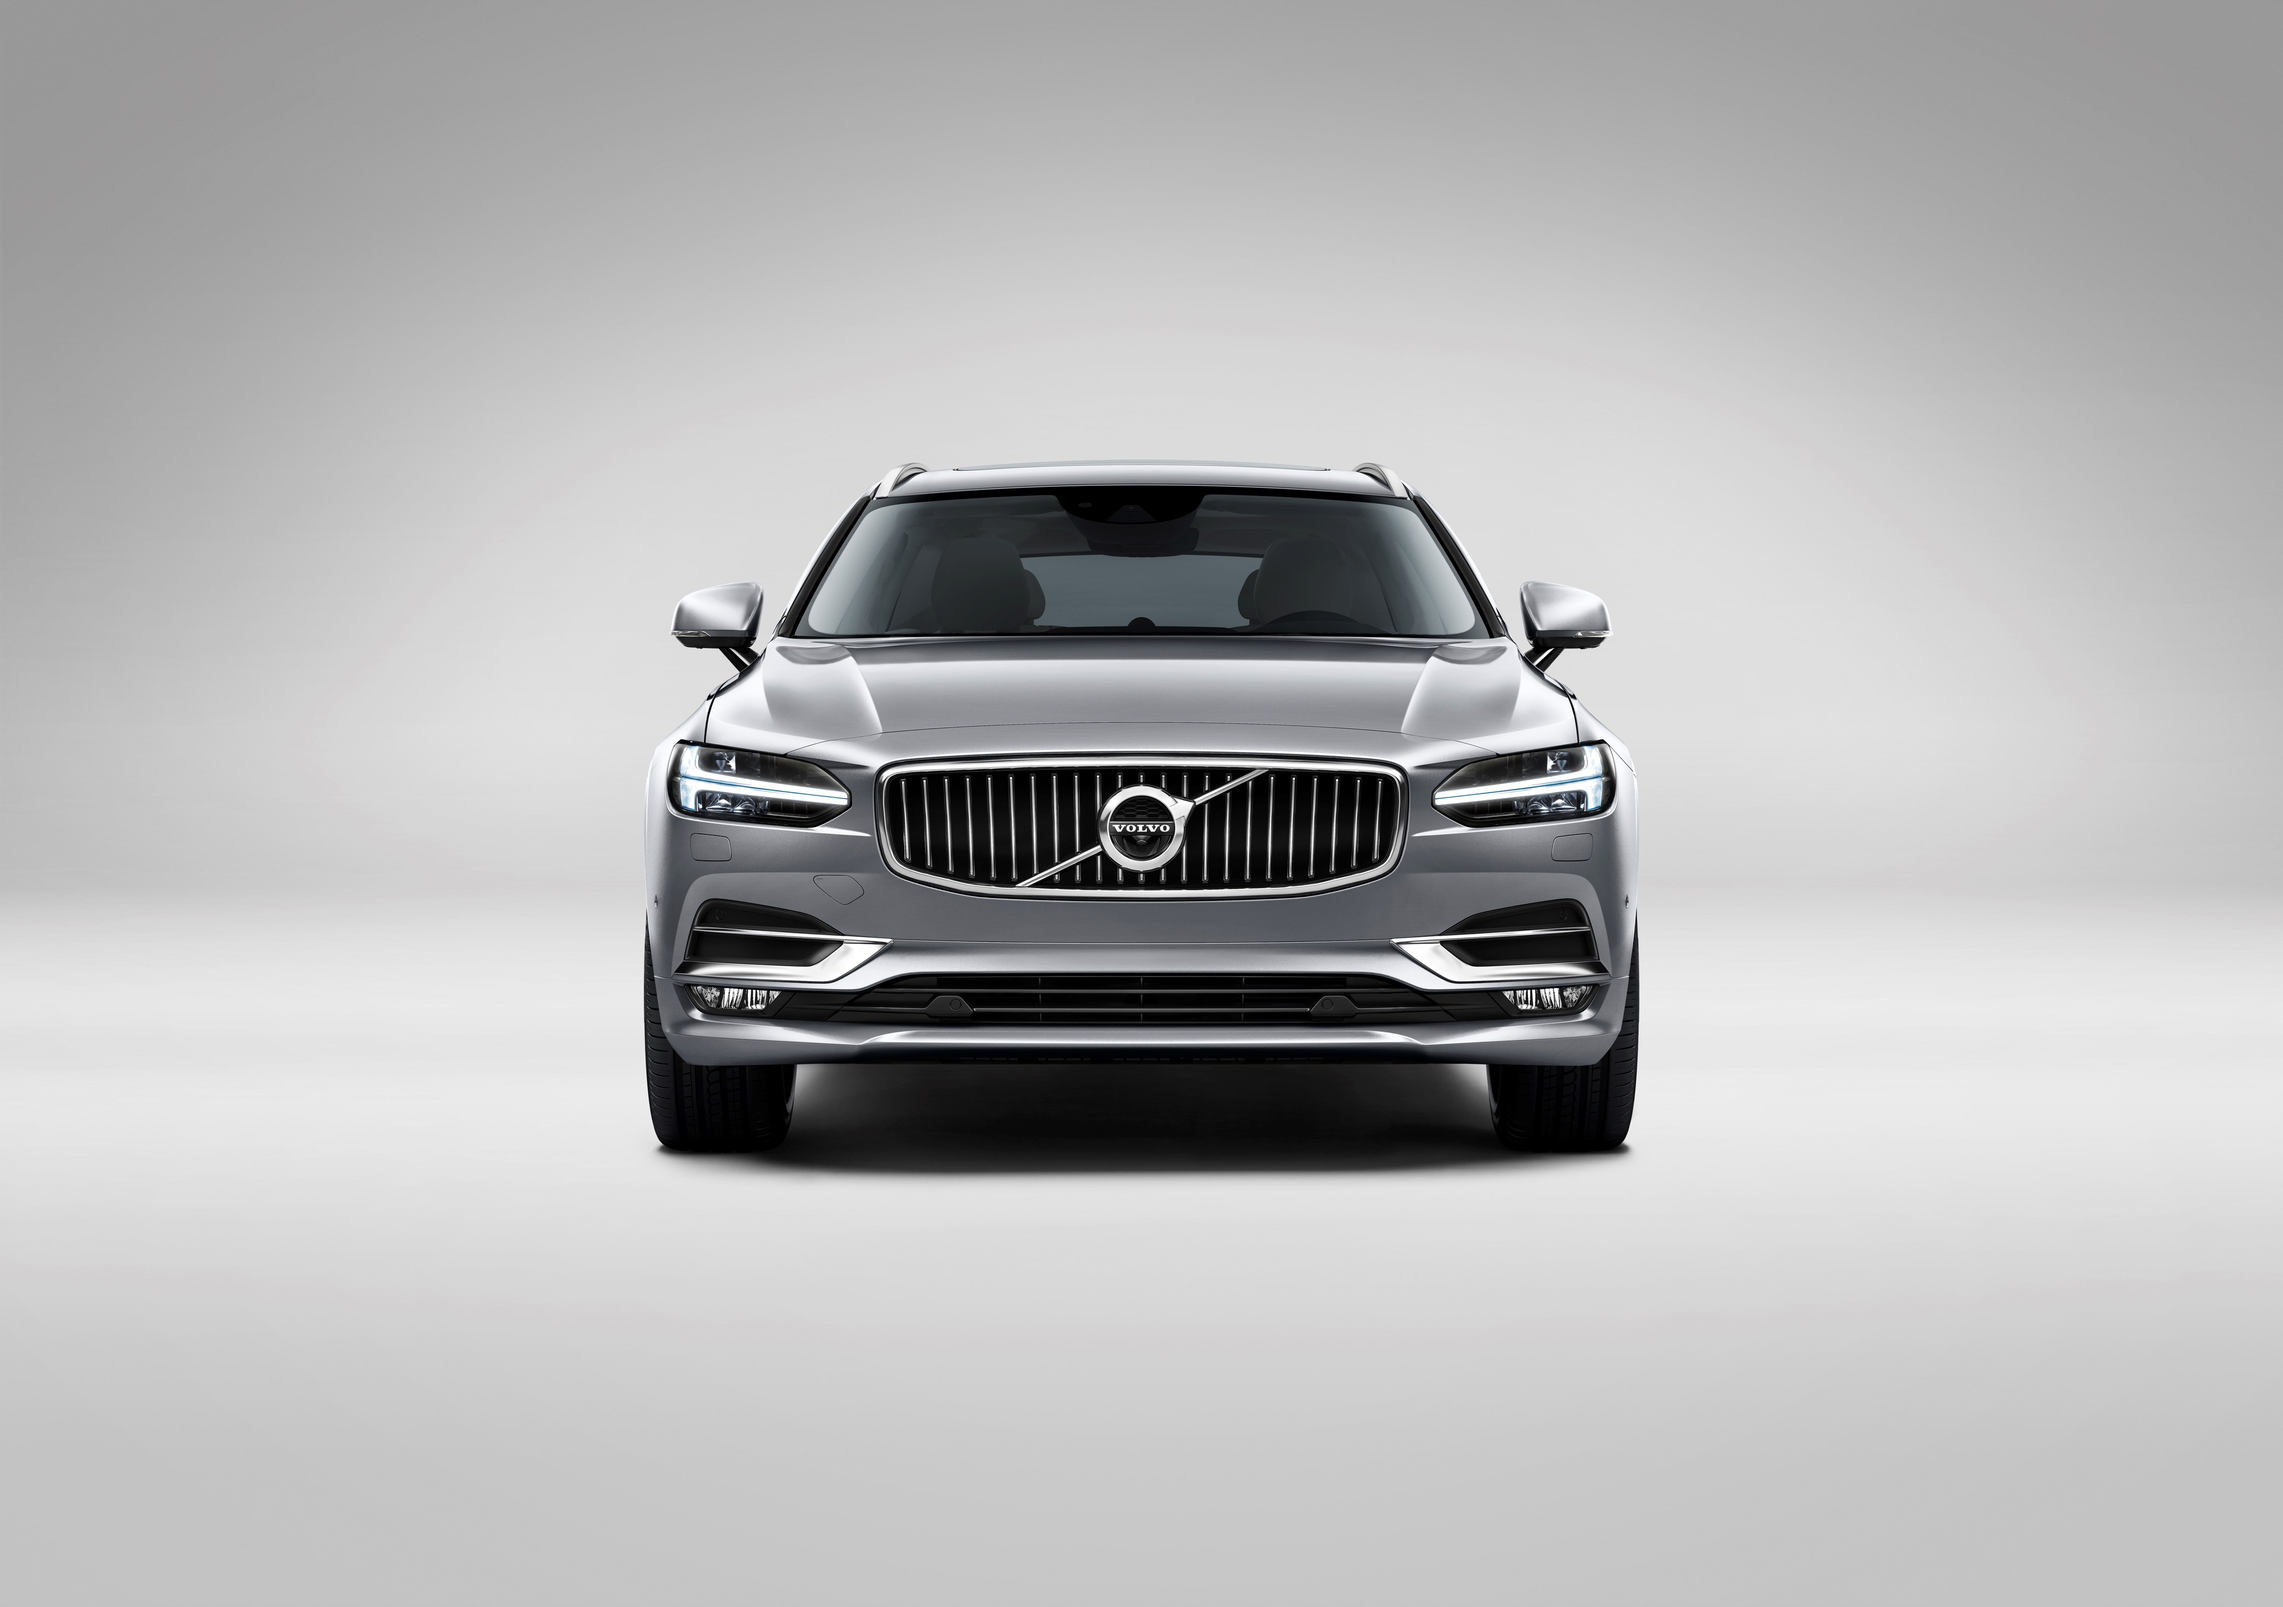
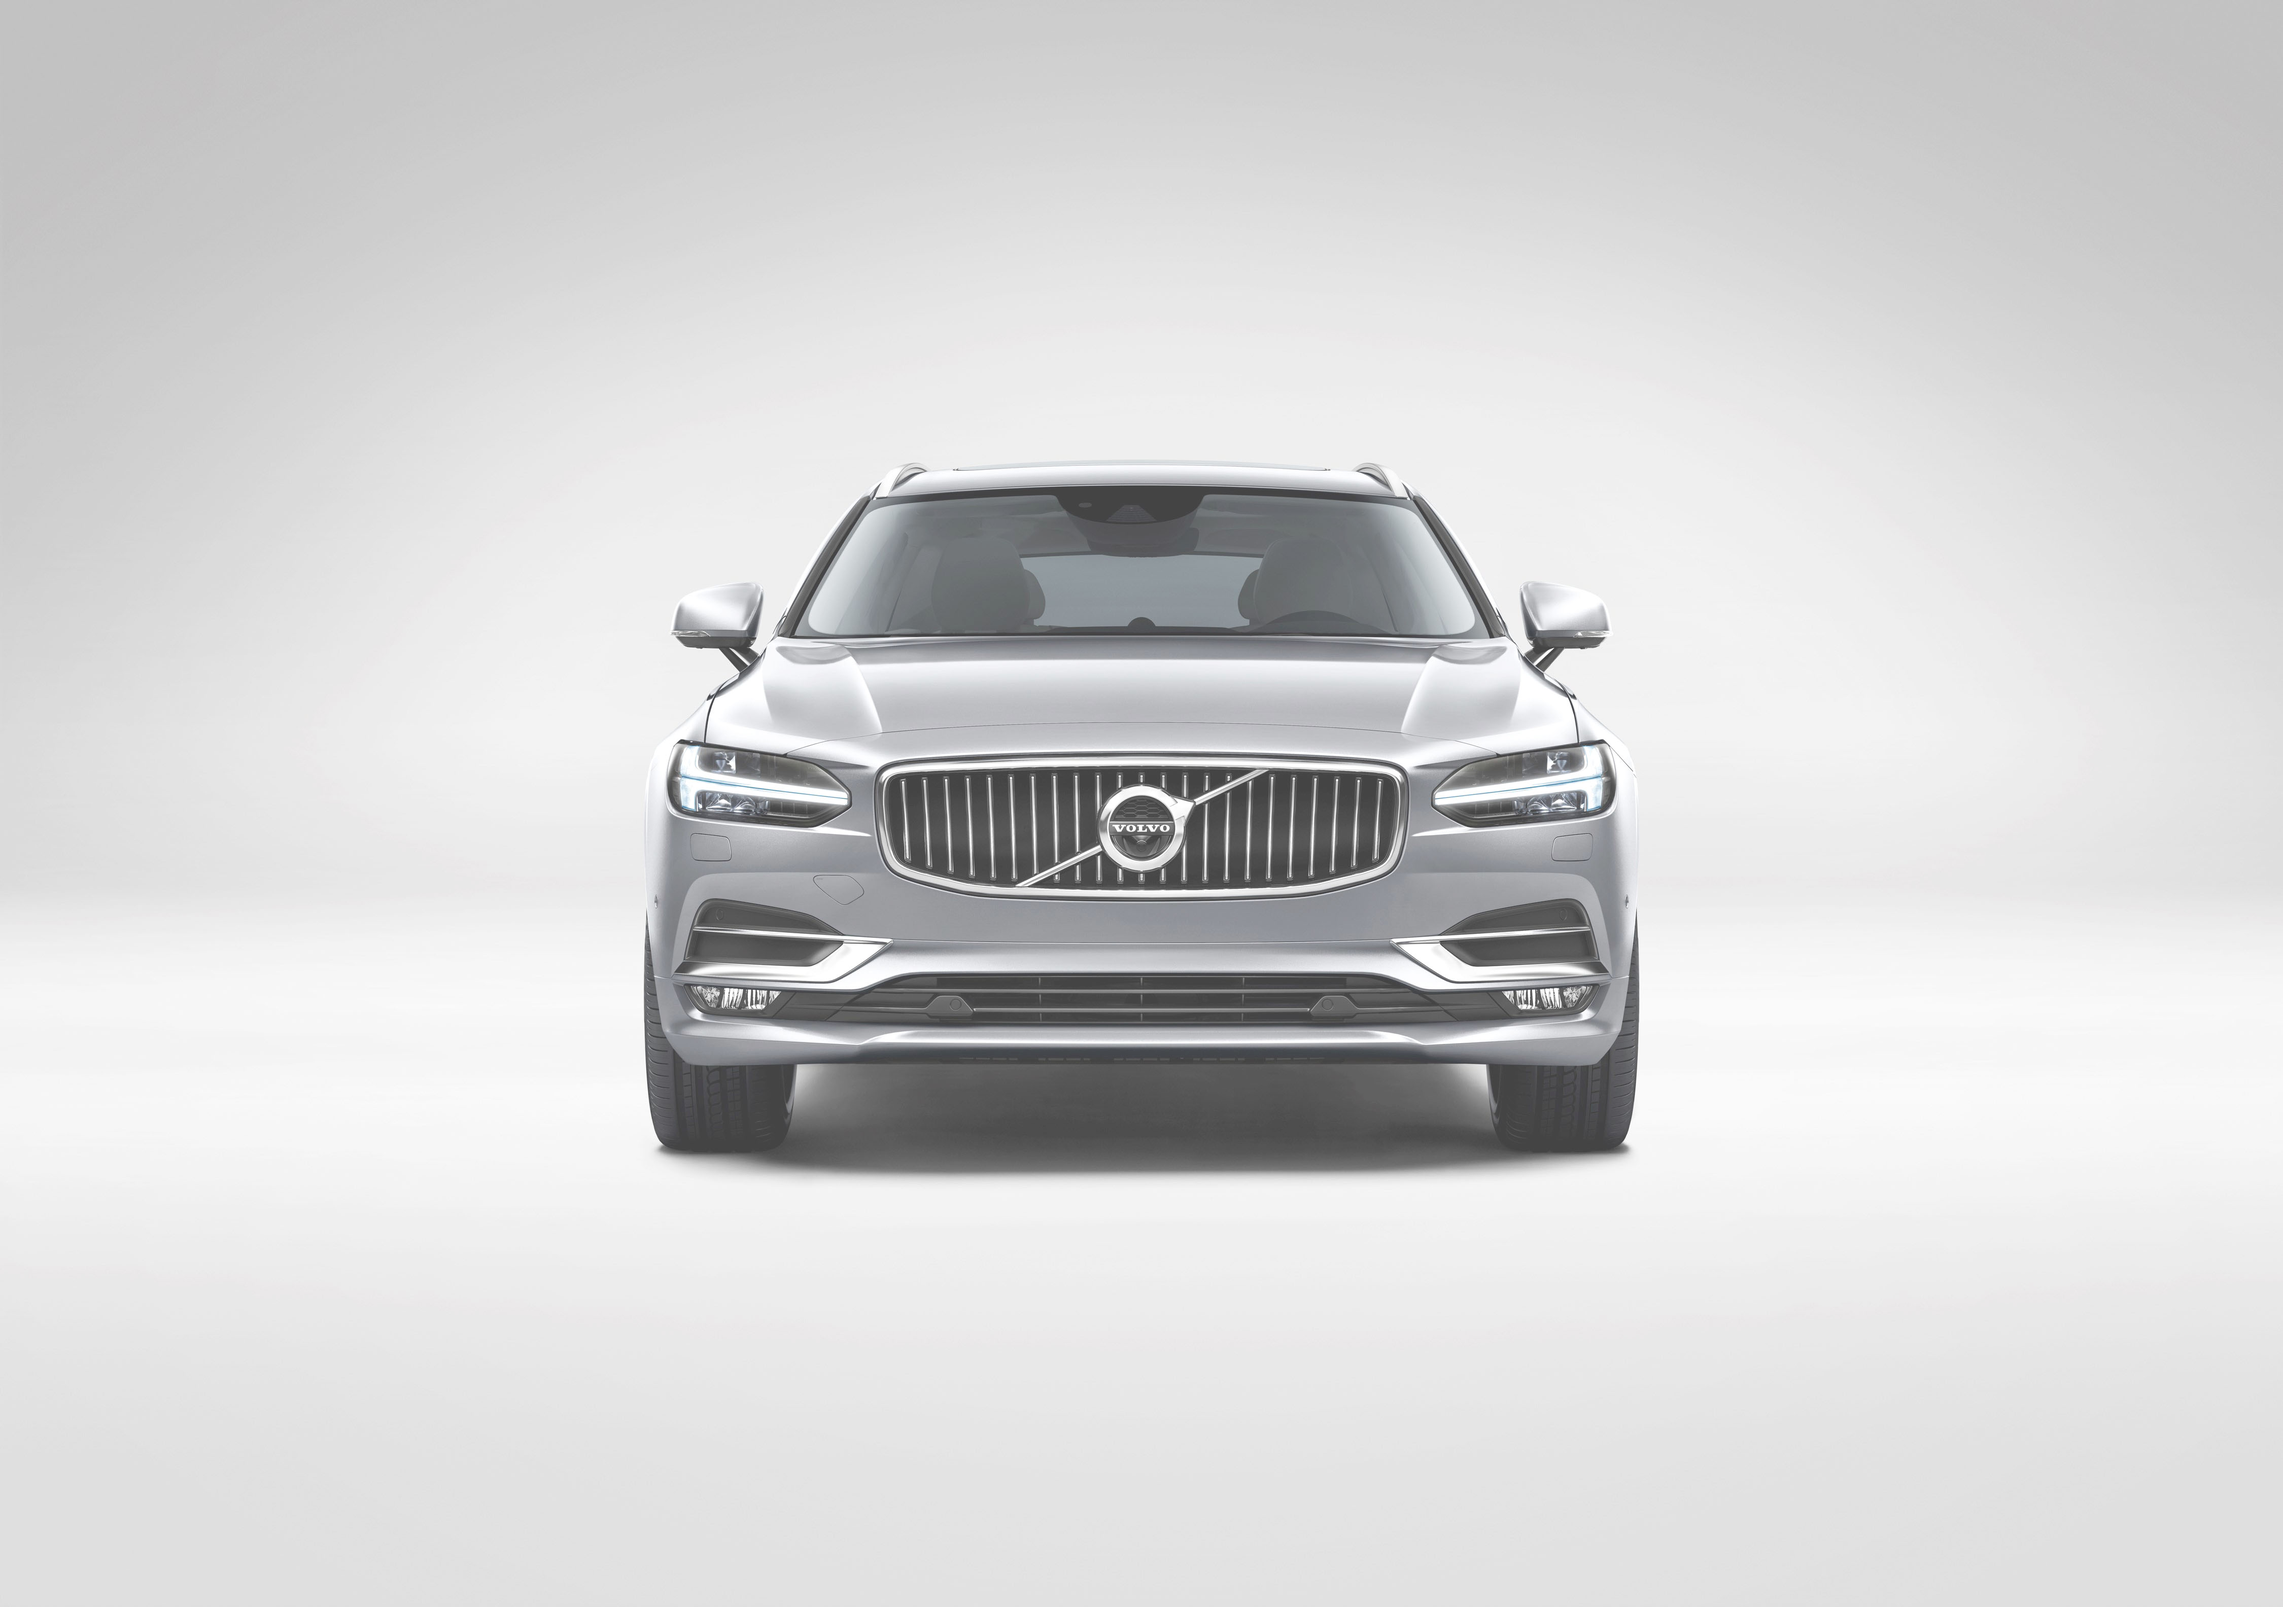
updated background

diff --git a/assets/css/styles.css b/assets/css/styles.css
@@ -1,81 +1,87 @@
 p {
-  font-weight:600;
-  font-size:x-large;
+    font-weight: 600;
+    font-size: x-large;
 }
 
-#logo{
-  float: left;
+#logo {
+    float: left;
 }
 
 body {
-  margin:0px auto;
+    margin: 0px auto;
 }
-#heading{
-  width: 100%;
+
+#heading {
+    width: 100%;
 }
 
 #header {
-  height: 100vh;
-  background-image: url("/assets/img/volvo5.jpg");
-  background-position: center;
-  background-repeat: no-repeat;
-  background-size: cover;
-  text-align: center;
-}
-#heading-info{
-  /* background-color: rgba(255, 255, 255, 0.274); */
-}
-.contact_info{
-  float: right;
-}
-.button-box{
- top:  50%;
- margin: 0px auto;
+    height: 100vh;
+    background-image: url("/assets/img/volvo2.jpeg");
+    background-position: center;
+    background-repeat: no-repeat;
+    background-size: cover;
+    text-align: center;
 }
 
-.button {
+#heading-info {
+    /* background-color: rgba(255, 255, 255, 0.274); */
 }
-.button {
-  background: transparent;
-  border: 0;
-  padding: 0;
-  cursor: pointer;
-  outline: 0;
-  -webkit-appearance: none;
+
+.contact_info {
+    float: right;
 }
+
+.button-box {
+    top: 50%;
+    margin: 0px auto;
+}
+
+.button {}
+
+.button {
+    background: transparent;
+    border: 0;
+    padding: 0;
+    cursor: pointer;
+    outline: 0;
+    -webkit-appearance: none;
+}
+
 
 /* Custom */
+
 .button {
-  display: inline-block;
-  padding: 20px 38px;
-  font-size: 30px;
-  font-family: "Open Sans", Helvetica;
-  border-radius: 4px;
-  border-bottom: 1px solid rgba(0, 0, 0, 0.986);
-  background: linear-gradient(45deg, rgb(30, 43, 223), rgb(100, 108, 231));
-  color: rgba(0, 0, 0, 0.986);
-  box-shadow: 0px 0px 0px rgba(66, 62, 6, 0.349);
-  -webkit-transform: translateZ(0);
-     -moz-transform: translateZ(0);
-      -ms-transform: translateZ(0);
-          transform: translateZ(0);
-  -webkit-transition: all 0.2s ease;
-     -moz-transition: all 0.2s ease;
-      -ms-transition: all 0.2s ease;
-          transition: all 0.2s ease;
+    display: inline-block;
+    padding: 20px 38px;
+    font-size: 30px;
+    font-family: "Open Sans", Helvetica;
+    border-radius: 4px;
+    border-bottom: 1px solid rgba(0, 0, 0, 0.986);
+    background: linear-gradient(45deg, rgb(30, 43, 223), rgb(100, 108, 231));
+    color: rgba(0, 0, 0, 0.986);
+    box-shadow: 0px 0px 0px rgba(66, 62, 6, 0.349);
+    -webkit-transform: translateZ(0);
+    -moz-transform: translateZ(0);
+    -ms-transform: translateZ(0);
+    transform: translateZ(0);
+    -webkit-transition: all 0.2s ease;
+    -moz-transition: all 0.2s ease;
+    -ms-transition: all 0.2s ease;
+    transition: all 0.2s ease;
 }
 
 .button:hover {
-  top: 19.6%;
-  box-shadow: 0px 10px 10px rgba(0, 0, 0, 0.418);
-  -webkit-transform: rotateX(20deg);
-     -moz-transform: rotateX(20deg);
-      -ms-transform: rotateX(20deg);
-          transform: rotateX(20deg);
+    top: 19.6%;
+    box-shadow: 0px 10px 10px rgba(0, 0, 0, 0.418);
+    -webkit-transform: rotateX(20deg);
+    -moz-transform: rotateX(20deg);
+    -ms-transform: rotateX(20deg);
+    transform: rotateX(20deg);
 }
 
 .button:active {
-  top: 19%;
-  box-shadow: 0px 0px 0px rgba(0, 0, 0, 0.312);
-  background: rgba(38, 59, 250, 0.986);
+    top: 19%;
+    box-shadow: 0px 0px 0px rgba(0, 0, 0, 0.312);
+    background: rgba(38, 59, 250, 0.986);
 }
